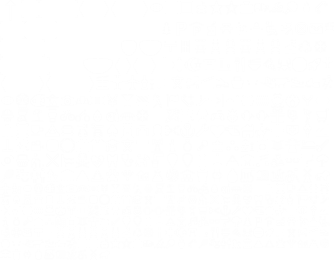
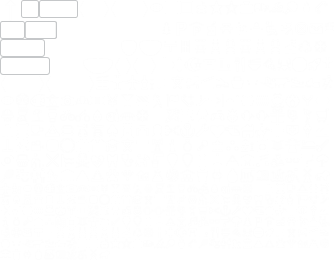
Add inversed border for default_x

Changed region(s): [[0.0, 0.0, 0.2388, 0.2462], [0.0, 0.2769, 0.1493, 0.3077]]

diff --git a/bin/whiten-basic.js b/bin/whiten-basic.js
@@ -17,13 +17,16 @@ const parserOptions = {
  * @param {string} styleText
  * @returns mutated style text
  */
-const whitenDefault_x = (styleText) => {
+const whitenDefault_x = (styleText, index) => {
   const styleEntries = styleText
     .split(";")
     .map((kvp) => kvp.split(":").map((value) => value.trim()));
   for (const entry of styleEntries) {
-    if (entry[0] === "fill" || entry[0] === "color") {
-      entry[1] = "#ffffff";
+    if (entry[0] === "fill") {
+      console.log(index);
+      entry[1] = index === 0 ? "#c5c7c9" : "#ffffff"; // #c5c7c9 is the inverse color of #3a3836
+    } else if (entry[0] === "color") {
+      entry[1] = "#c5c7c9";
     }
   }
   return styleEntries.map((entry) => entry.join(":")).join(";");
@@ -47,7 +50,10 @@ const convert = (parent, filename) => {
         child[appendingKey] = "#ffffff";
       } else if (filename.match(/^default_[0-9]/) && key === "rect") {
         const appendingKey = `${parserOptions.attributeNamePrefix}style`;
-        child[appendingKey] = whitenDefault_x(child[appendingKey]);
+        child[appendingKey] = whitenDefault_x(
+          child[appendingKey],
+          children.indexOf(child)
+        );
       } else {
         if (typeof child === "object") {
           convert(child, filename);
